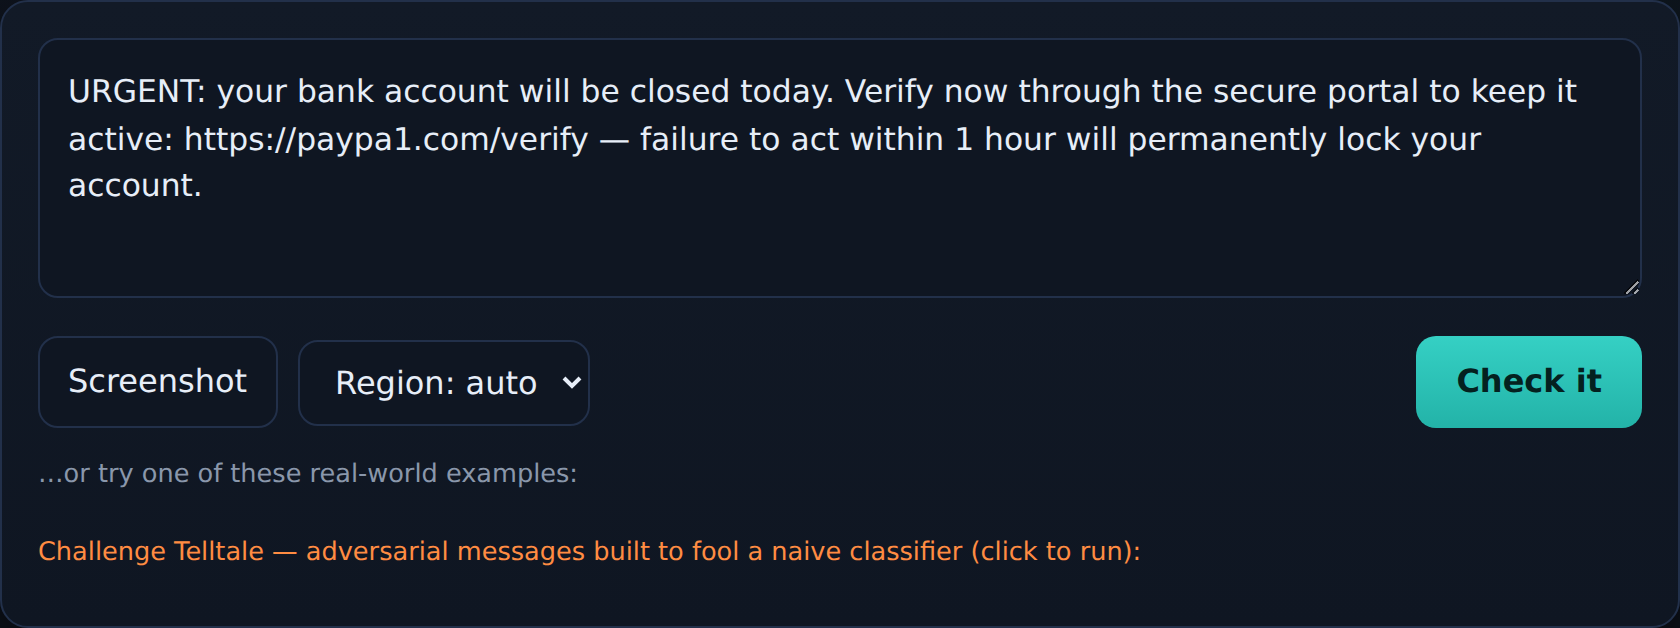
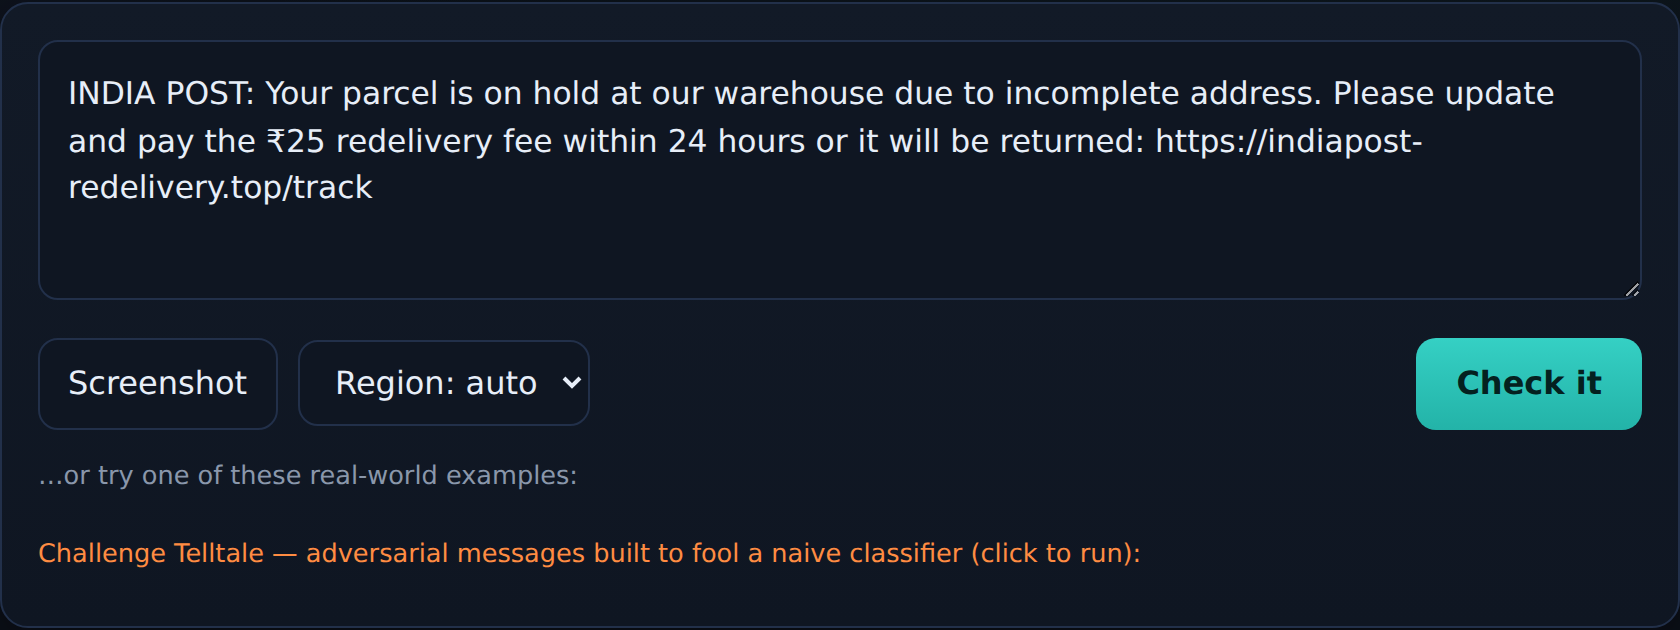
Add CI (tests + eval gates) and badges; real-run screenshots

diff --git a/README.md b/README.md
@@ -1,5 +1,9 @@
 # Telltale
 
+[![CI](https://github.com/adityaalleshwaram508-sys/Telltale/actions/workflows/ci.yml/badge.svg)](https://github.com/adityaalleshwaram508-sys/Telltale/actions/workflows/ci.yml)
+&nbsp;[![License: MIT](https://img.shields.io/badge/License-MIT-green.svg)](LICENSE)
+&nbsp;[![Python 3.11](https://img.shields.io/badge/python-3.11-blue.svg)](https://www.python.org/)
+
 **An evidence-constrained fraud-analysis pipeline.** A language model may propose a
 claim, but no claim reaches the user unless it can be grounded in the observed
 input, a deterministic signal, or retrieved evidence — and the model can never
@@ -74,15 +78,15 @@ python eval/grounding.py     # Evidence Integrity Benchmark (no API key needed)
 
 ## What it looks like
 
-**1. Input** — paste a suspicious message, link, or screenshot.
+**1. Input** — paste a suspicious message, link, or screenshot, or try a built-in example (including the adversarial "Challenge Telltale" set).
 
 ![Input](docs/shot-1-input.png)
 
-**2. Evidence** — every tell is bound to a detected signal, a live source, or a direct quote.
+**2. Evidence** — every tell is bound to a detected signal, a live Tavily source, or a direct quote.
 
 ![Evidence](docs/shot-2-evidence.png)
 
-**3. Verification** — the model proposed 5 findings; 2 were rejected as unsupported, with the reason each was dropped.
+**3. Verification** — the Evidence check on every result: how many findings the model proposed, how many the evidence backed, and any it couldn't (rejected, with the reason). Here all five were backed; the verifier's rejection behaviour is measured reproducibly in the [Evidence Integrity Benchmark](docs/EVALUATION.md).
 
 ![Verification](docs/shot-3-verification.png)
 
